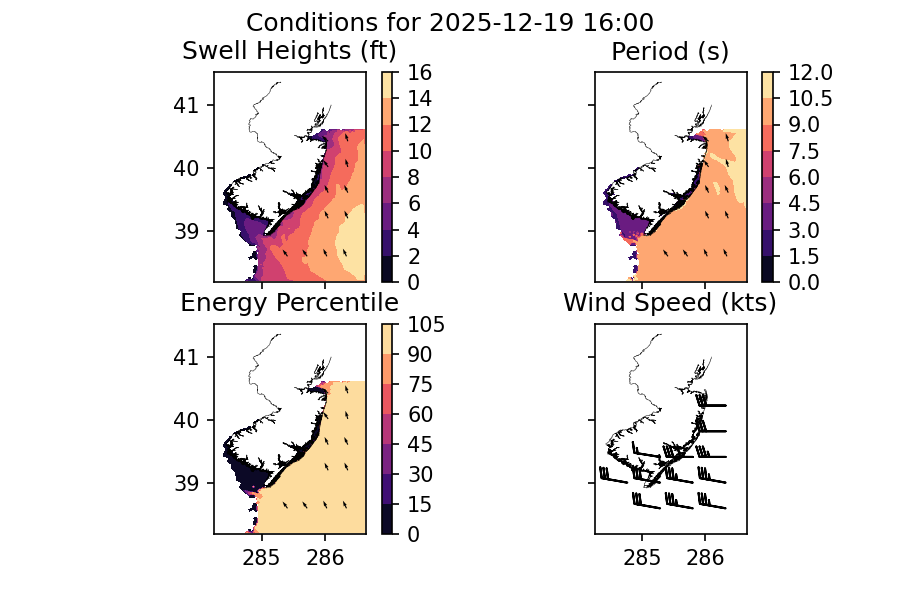
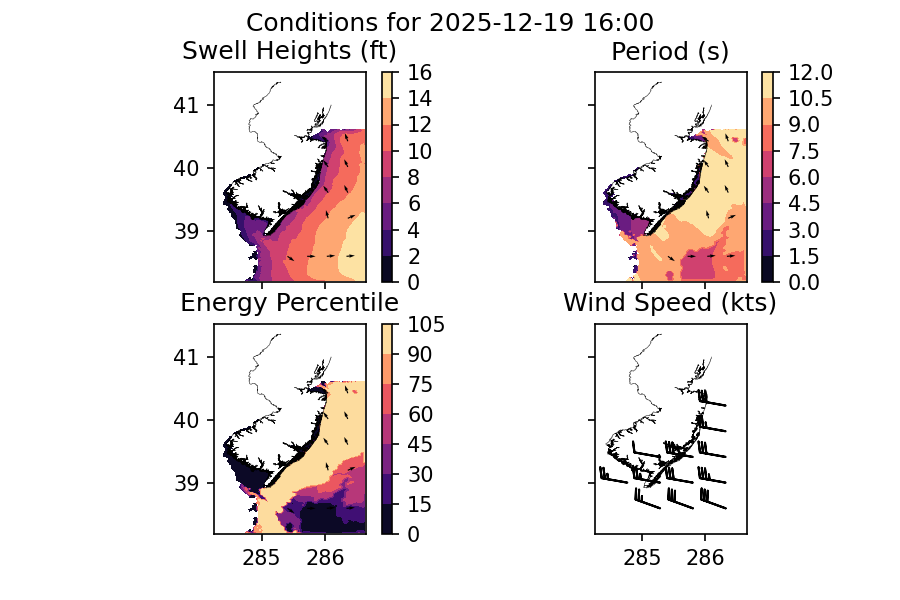
Updated forecast for 12/19

diff --git a/_posts/2025-12-15-Swell-Event-Forecast.md b/_posts/2025-12-15-Swell-Event-Forecast.md
@@ -7,9 +7,9 @@ title: Back-to-Back Swells for the Week of 12/19
 
 ---
 
-**Last updated 12/17 at 13:00**
+**Last updated 12/19 at 11:30**
 
-Friday, 12/19, and Saturday morning are looking potentially very fun with a possibility of firing surf Friday.
+Friday, 12/19, and Saturday morning are looking potentially very fun with firing surf Friday.
 
 ## The Setup
 
@@ -25,32 +25,39 @@ Winds are expected to switch offshore as that low pressure system continues to m
 
 ![20251219 End of Day](/assets/images/2025-12-19_21.png)
 
-Swell heights are expected to peak in the morning and should be well overhead early. There will be plenty of waves all day with head high+ surf by sunset. I expect the numbers to move a little bit as we get closer, so don't get married to any one forecast just yet. Period values should be in the 8-9 second range in the AM and possibly 10 seconds or so by end of day. Swell angle is favorable for Monmouth County and should set up some fun right handers.
+Swell heights are expected to peak late AM and should be well overhead. There will be plenty of waves all day with overhead surf by sunset. Swell angle is favorable for Monmouth County and should set up some fun right handers.
 
 We have a mid-day low tide setting up a nice window in the late afternoon before sunset. Winds are expected to be strong out of the south early before switching offshore mid-day. Expect offshores to be around 30kts though. We haven't had blind takeoffs in a while, but they will be the norm on Friday.
 
 Beginners and novice surfers should plan on watching from the beach. Expect strong currents and heavy, hollow waves.
 
-While the largest surf will be in the AM, plenty of size sticks around as the day goes on and the surf will be much cleaner by mid-afternoon.
+Surf will get cleaner as the day goes on, with improving conditions through last light.
 
 I'd throw a HPSB and/or a barrel board in the truck.
 
-![20251220 AM](/assets/images/2025-12-20_14.png)
+![20251220 AM](/assets/images/2025-12-20_13.png)
 
-Surf heights for Saturday are currently forecasted to be in the waist-chest range or so. Again, it's a little early to make any calls and we're going to have strong offshore winds. At this point, I'd be surprised if we don't have some leftovers on Saturday, given the fetch we're looking at, but the size could be on the optimistic side right now. Period values should be in the 9-10 second range or so.
+![20251220 AM2](/assets/images/2025-12-20_15.png)
 
-Wind is still fairly strong, which will limit the size of the leftover surf a bit. It helps that this is better directed and a little longer period at 10 seconds. But still, expect it to fade pretty quickly through the day. The best window will be the dropping tide in the AM. To make the most of it, look for a bar that can handle a bit higher tide.
+As of 12/19, it seems like this is going to be the main day of surf for most surfers. Friday is too challenging/dangerous for most (that probably means you). Luckily, surf is way more approachable, if not a little less size than one would hope for. Waves should be chest high at first light, but high tide is going to slow down the vast majority of spots until at least 8am if not later.
 
-Surf should be down enough for beginners and newer surfers by the afternoon. I'd avoid actual low tide, but there's a decent window for the longboards on the afternoon incoming tide.
+Personally, I'd keep an eye on the cams and go as soon as the waves start to break. That'll probably be around 8:30-9:00. Models are suggesting wave heights in the 3ft@10s range, which would put surf at around waist high with occasional chest high sets. Wind is offshore, but moderately strong at around 15kts. Not enough for blind takeoffs, but enough to hold the surf up a little. A daily driver type board or a performance groveler is probably the call. Wide nosed boards will struggle to get into waves a bit, but YMMV.
+
+![20251220 PM](/assets/images/2025-12-20_18.png)
+
+Waves fade through the morning and are around waist high by 1pm. Beginners and novice surfers looking to get some fun longboard waves should check around that time, but make sure to watch the wind forecast. Wind should switch out of the southwest sometime around 2pm. That said, it's not enough to ruin the surf and it won't be too bad in Monmouth County. Ocean County will fare a bit worse, but again, not too bad.
 
 ## Sunday 12/21
 
 ![20251221 GFS](/assets/images/20251221_resized.jpg)
 
-![20251221 Waves](/assets/images/2025-12-21_17.png)
+![20251221 Waves](/assets/images/2025-12-21_15.png)
+
+![20251221 Waves](/assets/images/2025-12-21_18.png)
+
 
 We're looking at another setup that's similar to what we've been seeing with a steep angled south-southwest angled swell from an area of low pressure over the Great Lakes. This area of low pressure is interacting with an area of high pressure east of the Maritimes which helps aim the swell a little bit better towards our region than some of the past swell events we've had.
 
-That said, this will be a short-lived and short period swell. It should be pretty fun on a longboard or (potentially) a small wave board. The best window is currently looking to be late AM/noon after the 7am high tide.
+That said, this will be a short-lived and short period swell. It should be pretty fun on a longboard or (potentially) a small wave board. The best window is currently looking to be late AM after the 7am high tide.
 
-Current wind numbers are a little higher than I'd like to see, but forecasts are still bouncing around some. Winds are currently expected to remain offshore all day, but again, that could change.
+Current wind numbers are a little higher than I'd like to see given the short period swell, but at least it'll be clean.
